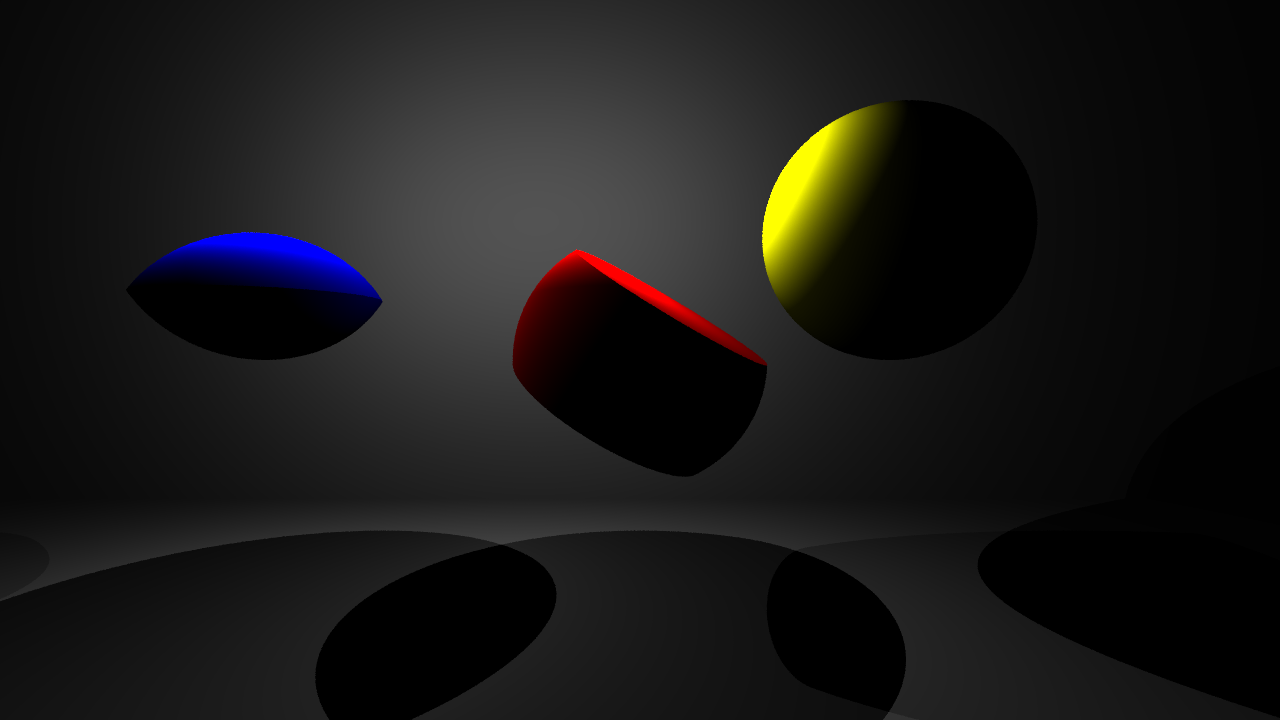
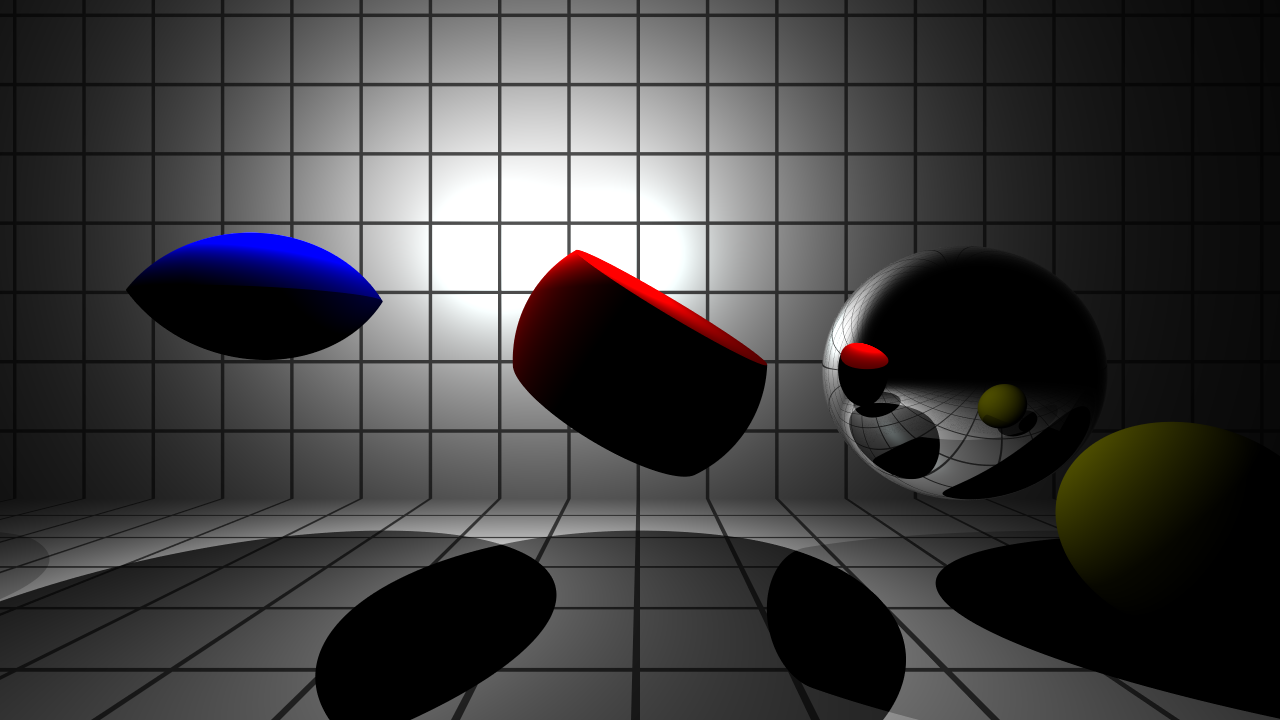
Implementing whitted integrator and fully reflective material.

diff --git a/scenes/simple_csg_scene.go b/scenes/simple_csg_scene.go
@@ -31,8 +31,14 @@ func NewSimpleCSGScene() Scene {
 	redMaterial := materials.MakeDiffuseMaterial(vec3.T{1, 0, 0})
 	blueMaterial := materials.MakeDiffuseMaterial(vec3.T{0, 0, 1})
 	yellowMaterial := materials.MakeDiffuseMaterial(vec3.T{1, 1, 0})
+	reflectiveMaterial := materials.NewReflective(vec3.T{1, 1, 1})
 
 	list := intersectables.NewIntersectableList(2)
+	sphere1 := csg.NewSphere(vec3.T{-3, 0, 0}, 1.0, blueMaterial)
+	sphere2 := csg.NewSphere(vec3.T{-3, 1, 0}, 1.0, blueMaterial)
+	pill := csg.NewNode(sphere1, sphere2, csg.INTERSECT)
+	list.Add(pill)
+
 	sphere := csg.NewSphere(vec3.T{0, 0, 0}, 1.0, redMaterial)
 	cutNormal := vec3.T{0.3, .5, .1}
 	cutNormal.Normalize()
@@ -42,23 +48,20 @@ func NewSimpleCSGScene() Scene {
 	plane2 := csg.NewPlane(cut2Normal, -.5, redMaterial)
 	drum := csg.NewNode(node1, plane2, csg.INTERSECT)
 	list.Add(drum)
-	list.Add(intersectables.NewSphere(vec3.T{2, 1, 0}, 1.0, yellowMaterial))
-	sphere1 := csg.NewSphere(vec3.T{-3, 0, 0}, 1.0, blueMaterial)
-	sphere2 := csg.NewSphere(vec3.T{-3, 1, 0}, 1.0, blueMaterial)
-	pill := csg.NewNode(sphere1, sphere2, csg.INTERSECT)
-	list.Add(pill)
 
+	list.Add(intersectables.NewSphere(vec3.T{2.5, -0.1, 0}, 1.0, reflectiveMaterial))
+	list.Add(intersectables.NewSphere(vec3.T{2.6, -0.8, 2}, 0.5, yellowMaterial))
 	porcelanMaterial := materials.NewBlinn(vec3.T{0.5, 0.5, 0.5}, vec3.T{0.5, 0.6, 0.6}, 80)
-	gridMaterial := materials.NewGrid(porcelanMaterial, materials.NewDiffuseMaterial(1, 1, 1), 0.9, 0.1)
+	gridMaterial := materials.NewGrid(porcelanMaterial, materials.NewDiffuseMaterial(1, 1, 1), 0.95, 0.05)
 	list.Add(intersectables.NewPlane(vec3.T{0, 0, 1}, 4, gridMaterial))
 	list.Add(intersectables.NewPlane(vec3.T{0, 1, 0}, 2, gridMaterial))
 	s.Root = intersectables.NewAggregate(list)
 
-	//s.Integrator := integrators.MakeDebugIntegrator(s.Root)
+	// s.Integrator = integrators.MakeDebugIntegrator(s.Root)
 	l := make([]lights.LightGeometry, 0, 2)
 	l = append(l, lights.MakePointLight(vec3.T{0, 2, 0}, vec3.T{10, 10, 10}))
 	l = append(l, lights.MakePointLight(vec3.T{-3, 2, 0}, vec3.T{10, 10, 10}))
-	s.Integrator = integrators.MakePointLightIntegrator(s.Root, l)
+	s.Integrator = integrators.MakeWhittedIntegrator(s.Root, l)
 
 	return s
 }

diff --git a/integrators/whitted_integrator.go b/integrators/whitted_integrator.go
@@ -7,14 +7,32 @@ import (
 	"github.com/ungerik/go3d/vec3"
 )
 
-type PointLightIntegrator struct {
+const maxDepth = 10
+
+type WhittedIntegrator struct {
 	Root        util.Intersectable
 	PointLights []lights.LightGeometry
 }
 
-func (d *PointLightIntegrator) Integrate(r *util.Ray, _ int) *vec3.T {
+func (d *WhittedIntegrator) Integrate(ray *util.Ray, depth int) *vec3.T {
 	outgoing := vec3.T{}
-	if hit := d.Root.Intersect(r); hit != nil {
+	if hit := d.Root.Intersect(ray); hit != nil {
+		if depth < maxDepth {
+			reflected := vec3.Zero
+			refracted := vec3.Zero
+			s, hasReflection := hit.Material.EvaluateSpecularReflection(hit)
+			if hasReflection {
+				reflected = s.BRDF
+				recursiveRay := util.MakeEpsilonRay(&hit.Position, &s.W)
+				spec := d.Integrate(recursiveRay, depth+1)
+				reflected.Mul(spec)
+			}
+			// TODO: Refracted part.
+			hasRefraction := false
+			if hasReflection || hasRefraction {
+				return reflected.Add(&refracted)
+			}
+		}
 		for i := range d.PointLights {
 			lightHit := d.PointLights[i].Sample([2]float32{0, 0})
 			lightDir := vec3.Sub(&lightHit.Position, &hit.Position)
@@ -40,9 +58,6 @@ func (d *PointLightIntegrator) Integrate(r *util.Ray, _ int) *vec3.T {
 	return &outgoing
 }
 
-func MakePointLightIntegrator(root util.Intersectable, pointLights []lights.LightGeometry) *PointLightIntegrator {
-	integrator := new(PointLightIntegrator)
-	integrator.Root = root
-	integrator.PointLights = pointLights
-	return integrator
+func MakeWhittedIntegrator(root util.Intersectable, pointLights []lights.LightGeometry) *WhittedIntegrator {
+	return &WhittedIntegrator{Root: root, PointLights: pointLights}
 }

diff --git a/materials/reflective.go b/materials/reflective.go
@@ -1,0 +1,43 @@
+package materials
+
+import (
+	"github.com/panmari/gort/util"
+	"github.com/ungerik/go3d/vec3"
+)
+
+type reflective struct {
+	ks vec3.T
+}
+
+func (m *reflective) EvaluateEmission(hit *util.Hitrecord, wOut *vec3.T) vec3.T {
+	return vec3.T{}
+}
+func (m *reflective) GetEmissionSample(hit *util.Hitrecord, sample [2]float32) *vec3.T {
+	return nil
+}
+
+func (m *reflective) GetShadingSample(hit *util.Hitrecord, sample [2]float32) *vec3.T {
+	return nil
+}
+
+func (m *reflective) DoesCastShadows() bool {
+	return true
+}
+
+func (m *reflective) EvaluateSpecularReflection(hit *util.Hitrecord) (util.ShadingSample, bool) {
+	r := util.Reflect(&hit.Normal, &hit.W_in)
+	return util.ShadingSample{
+		BRDF:        m.ks,
+		W:           r,
+		Probability: 1,
+	}, true
+}
+
+func (m *reflective) EvaluateBRDF(hit *util.Hitrecord, wOut, wIn *vec3.T) vec3.T {
+	return m.ks
+}
+
+// NewReflective TODO(panmari): Documentation.
+func NewReflective(ks vec3.T) util.Material {
+	return &reflective{ks}
+}

diff --git a/util/hitrecord.go b/util/hitrecord.go
@@ -17,6 +17,13 @@ type Hitrecord struct {
 	Material      Material
 }
 
+type ShadingSample struct {
+	BRDF vec3.T
+	// Sampled direction.
+	W           vec3.T
+	Probability float32
+}
+
 func (h *Hitrecord) String() string {
 	return fmt.Sprintf("Position: %v", h.Position)
 }
@@ -24,17 +31,4 @@ func (h *Hitrecord) String() string {
 type Intersectable interface {
 	Intersect(r *Ray) *Hitrecord
 	BoundingBox() *vec3.Box
-}
-
-type Material interface {
-	EvaluateEmission(hit *Hitrecord, wOut *vec3.T) vec3.T
-	GetEmissionSample(hit *Hitrecord, sample [2]float32) *vec3.T
-	GetShadingSample(hit *Hitrecord, sample [2]float32) *vec3.T
-	DoesCastShadows() bool
-	HasSpecularReflection() bool
-	HasSpecularRefraction() bool
-
-	// these pass a copy back
-	EvaluateSpecularReflection(hit *Hitrecord) vec3.T
-	EvaluateBRDF(hit *Hitrecord, wOut, wIn *vec3.T) vec3.T
 }

diff --git a/util/math.go b/util/math.go
@@ -2,6 +2,7 @@ package util
 
 import (
 	"github.com/barnex/fmath"
+	"github.com/ungerik/go3d/vec3"
 )
 
 // SolveQuadratic solves the quadratic equation
@@ -41,7 +42,16 @@ func ToRadians(degrees float32) float32 {
 func Min(a, b int) int {
 	if a < b {
 		return a
-	} else {
-		return b
 	}
+	return b
+}
+
+// Reflect returns a vector reflected along normal.
+// Assumes normal has size 1.
+func Reflect(normal, incoming *vec3.T) vec3.T {
+	dot := vec3.Dot(incoming, normal)
+	reflected := incoming.Inverted()
+	nScaled := normal.Scaled(2.0 * dot)
+	reflected.Add(&nScaled)
+	return reflected
 }

diff --git a/renderer/renderer.go b/renderer/renderer.go
@@ -1,10 +1,11 @@
 package renderer
 
 import (
+	"sync"
+
 	"github.com/cheggaaa/pb"
 	"github.com/panmari/gort/scenes"
 	"github.com/panmari/gort/util"
-	"sync"
 )
 
 func StartRendering(scene *scenes.Scene, draw_bar bool) {
@@ -49,7 +50,7 @@ func renderWindow(scene scenes.Scene, left, right, bottom, top int, wg *sync.Wai
 			samples := sampler.Get2DSamples(scene.SPP)
 			for s := range samples {
 				ray := camera.MakeWorldSpaceRay(x, y, samples[s])
-				color := integrator.Integrate(ray)
+				color := integrator.Integrate(ray, 0)
 				film.AddSample(x, y, color)
 			}
 			bar.Increment()

diff --git a/intersectables/sphere.go b/intersectables/sphere.go
@@ -52,7 +52,16 @@ func (s *Sphere) MakeHitrecord(t float32, r *util.Ray) *util.Hitrecord {
 	u := 0.5 + fmath.Atan2(hitPoint[2], hitPoint[0])/(2*fmath.Pi)
 	v := 0.5 - fmath.Asin(hitPoint[1])/fmath.Pi
 
-	return &util.Hitrecord{t, hitPoint, normal, wIn, u, v, s, s.material}
+	return &util.Hitrecord{
+		T:             t,
+		Position:      hitPoint,
+		Normal:        normal,
+		W_in:          wIn,
+		U:             u,
+		V:             v,
+		Intersectable: s,
+		Material:      s.material,
+	}
 }
 
 func NewSphere(center vec3.T, radius float32, m util.Material) *Sphere {

diff --git a/materials/diffuse.go b/materials/diffuse.go
@@ -29,16 +29,8 @@ func (m *Diffuse) DoesCastShadows() bool {
 	return true
 }
 
-func (m *Diffuse) HasSpecularReflection() bool {
-	return false
-}
-
-func (m *Diffuse) HasSpecularRefraction() bool {
-	return false
-}
-
-func (m *Diffuse) EvaluateSpecularReflection(hit *util.Hitrecord) vec3.T {
-	return vec3.T{}
+func (m *Diffuse) EvaluateSpecularReflection(hit *util.Hitrecord) (util.ShadingSample, bool) {
+	return util.ShadingSample{}, false
 }
 
 func (m *Diffuse) EvaluateBRDF(hit *util.Hitrecord, wOut, wIn *vec3.T) vec3.T {

diff --git a/materials/blinn.go b/materials/blinn.go
@@ -28,16 +28,8 @@ func (m *blinn) DoesCastShadows() bool {
 	return true
 }
 
-func (m *blinn) HasSpecularReflection() bool {
-	return false
-}
-
-func (m *blinn) HasSpecularRefraction() bool {
-	return false
-}
-
-func (m *blinn) EvaluateSpecularReflection(hit *util.Hitrecord) vec3.T {
-	return vec3.Zero
+func (m *blinn) EvaluateSpecularReflection(hit *util.Hitrecord) (util.ShadingSample, bool) {
+	return util.ShadingSample{}, false
 }
 
 func (m *blinn) EvaluateBRDF(hit *util.Hitrecord, wOut, wIn *vec3.T) vec3.T {

diff --git a/materials/grid.go b/materials/grid.go
@@ -26,16 +26,8 @@ func (m *grid) DoesCastShadows() bool {
 	return true
 }
 
-func (m *grid) HasSpecularReflection() bool {
-	return false
-}
-
-func (m *grid) HasSpecularRefraction() bool {
-	return false
-}
-
-func (m *grid) EvaluateSpecularReflection(hit *util.Hitrecord) vec3.T {
-	return vec3.T{}
+func (m *grid) EvaluateSpecularReflection(hit *util.Hitrecord) (util.ShadingSample, bool) {
+	return util.ShadingSample{}, false
 }
 
 func (m *grid) EvaluateBRDF(hit *util.Hitrecord, wOut, wIn *vec3.T) vec3.T {

diff --git a/util/material.go b/util/material.go
@@ -1,0 +1,14 @@
+package util
+
+import "github.com/ungerik/go3d/vec3"
+
+type Material interface {
+	EvaluateEmission(hit *Hitrecord, wOut *vec3.T) vec3.T
+	GetEmissionSample(hit *Hitrecord, sample [2]float32) *vec3.T
+	GetShadingSample(hit *Hitrecord, sample [2]float32) *vec3.T
+	DoesCastShadows() bool
+
+	EvaluateSpecularReflection(hit *Hitrecord) (ShadingSample, bool)
+	// EvaluateSpecularRefraction(hit *Hitrecord) (ShadingSample, bool)
+	EvaluateBRDF(hit *Hitrecord, wOut, wIn *vec3.T) vec3.T
+}

diff --git a/materials/point_light_material.go b/materials/point_light_material.go
@@ -33,8 +33,8 @@ func (m *PointLightMaterial) HasSpecularRefraction() bool {
 	return false
 }
 
-func (m *PointLightMaterial) EvaluateSpecularReflection(hit *util.Hitrecord) vec3.T {
-	return vec3.T{}
+func (m *PointLightMaterial) EvaluateSpecularReflection(hit *util.Hitrecord) (util.ShadingSample, bool) {
+	return util.ShadingSample{}, false
 }
 
 func (m *PointLightMaterial) EvaluateBRDF(hit *util.Hitrecord, wOut, wIn *vec3.T) vec3.T {
